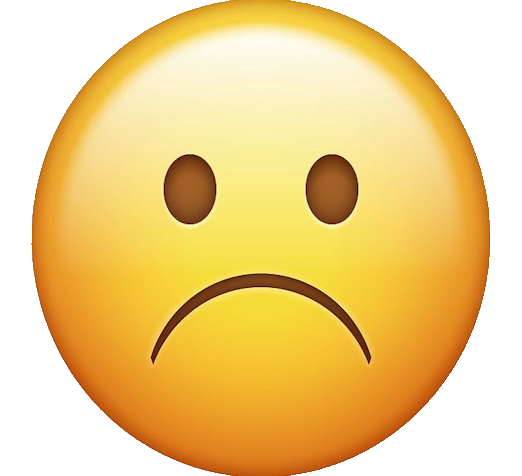
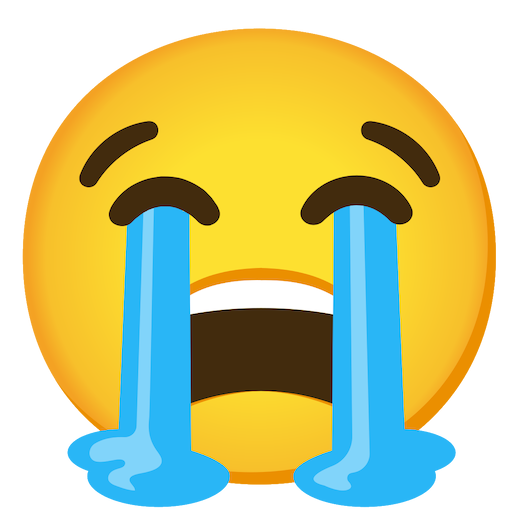
New offended message, style changes

diff --git a/src/components/Contact.js b/src/components/Contact.js
@@ -4,7 +4,7 @@ export default function Contact() {
     return (
         <div id="AllContent">
             <h1>Speak unto us</h1>
-            <p>We don't have an email set up yet. For the time being, if you want to get into contact go into Arbor Hill at night and start yelling. We'll probably be able to hear you.</p>
+            <p>Email capitalregionaggregatepress@gmail.com if you feel keen to chat with us. Note: if our servers detect that you send an email from New York's 21st Congressional District, it will be instantly deleted.</p>
         </div>
     );
 }

diff --git a/src/components/OffendedMessage.js b/src/components/OffendedMessage.js
@@ -13,7 +13,7 @@ export default function OffendedMessage() {
             <th>
               <p><strong>Offended?</strong></p>
               <hr style={{ width: '50%', margin: '0 auto' }}></hr>
-              <p><em>That's really quite a shame, but we really don't care</em></p>
+              <p><em>Don't be such a snowflake, they're just words!</em></p>
             </th>
           </tr>
         </table>

diff --git a/src/css/SinglePageCSS.css b/src/css/SinglePageCSS.css
@@ -151,7 +151,7 @@ section {
     }
 
     #TaxMessage p, #OffendedMessage p {
-        font-size: 10px;
+        font-size: 15px;
     }
 
     #main-blurb-paragraphs {
